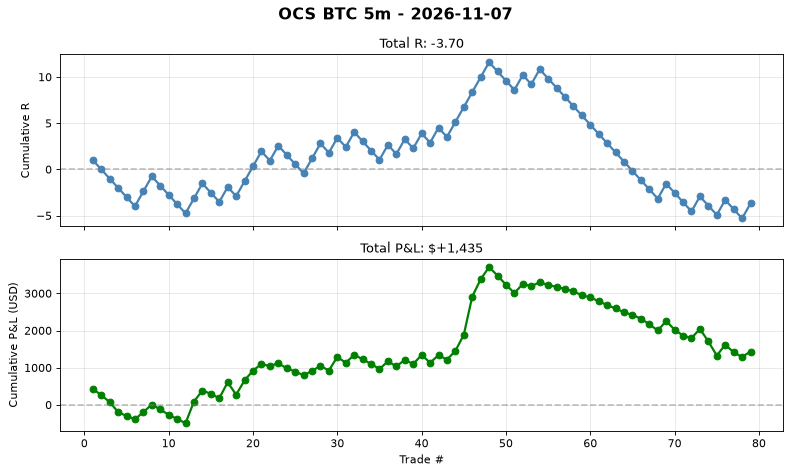
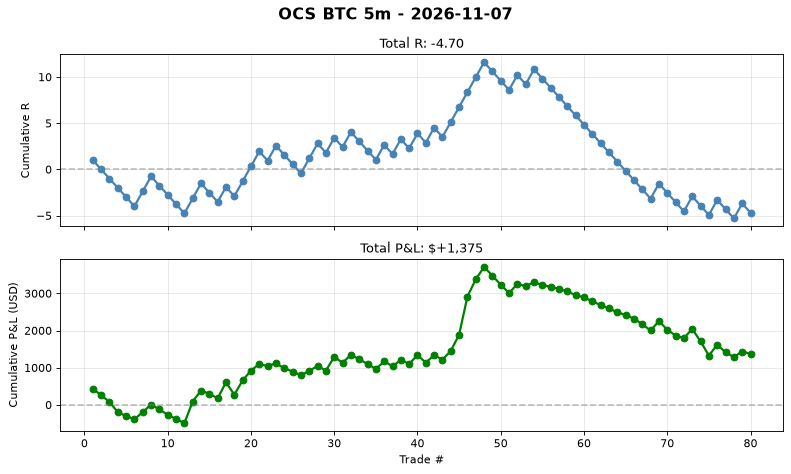
auto(ocs-btc): signal log 2026-11-07T04:01 trades=80

diff --git a/automation/reports/ocs_btc_5m/daily/2026-11-07.md b/automation/reports/ocs_btc_5m/daily/2026-11-07.md
@@ -1,5 +1,37 @@
 # OCS BTC 5m - 2026-11-07
 
-**No trades today.**
+## Summary
+- **Trades**: 1 (0W / 1L)
+- **Win Rate**: 0.0%
+- **Total R**: -1.00R
+- **Total P&L**: $-60
+- **Avg R**: -1.00R
+- **Profit Factor**: 0.91
 
-Cumulative stats: 79 trades | WR 36.7% | avg R -0.047
+## Exit Breakdown
+- T1 (+1.0R): 1
+- T2 (+1.618R): 28
+- T3 (+2.618R): 0
+- T4 (+3.618R): 0
+- T5 (+5.0R): 0
+- SL (-1.0R): 51
+
+## Best Trade
+- **LONG** at 75,961 -> SL 75,901
+- R = -1.00, P&L = $-60
+- Held for 9 bars
+
+## Worst Trade
+- **LONG** at 75,961 -> SL 75,901
+- R = -1.00, P&L = $-60
+- Held for 9 bars
+
+## Cumulative Stats (Lifetime)
+- Total trades: 80
+- WR: 36.2%
+- Avg R: -0.059
+- Total R: -4.70R
+- Profit Factor: 0.91
+
+## Chart
+See `daily/2026-11-07.png` for cumulative P&L curve.
